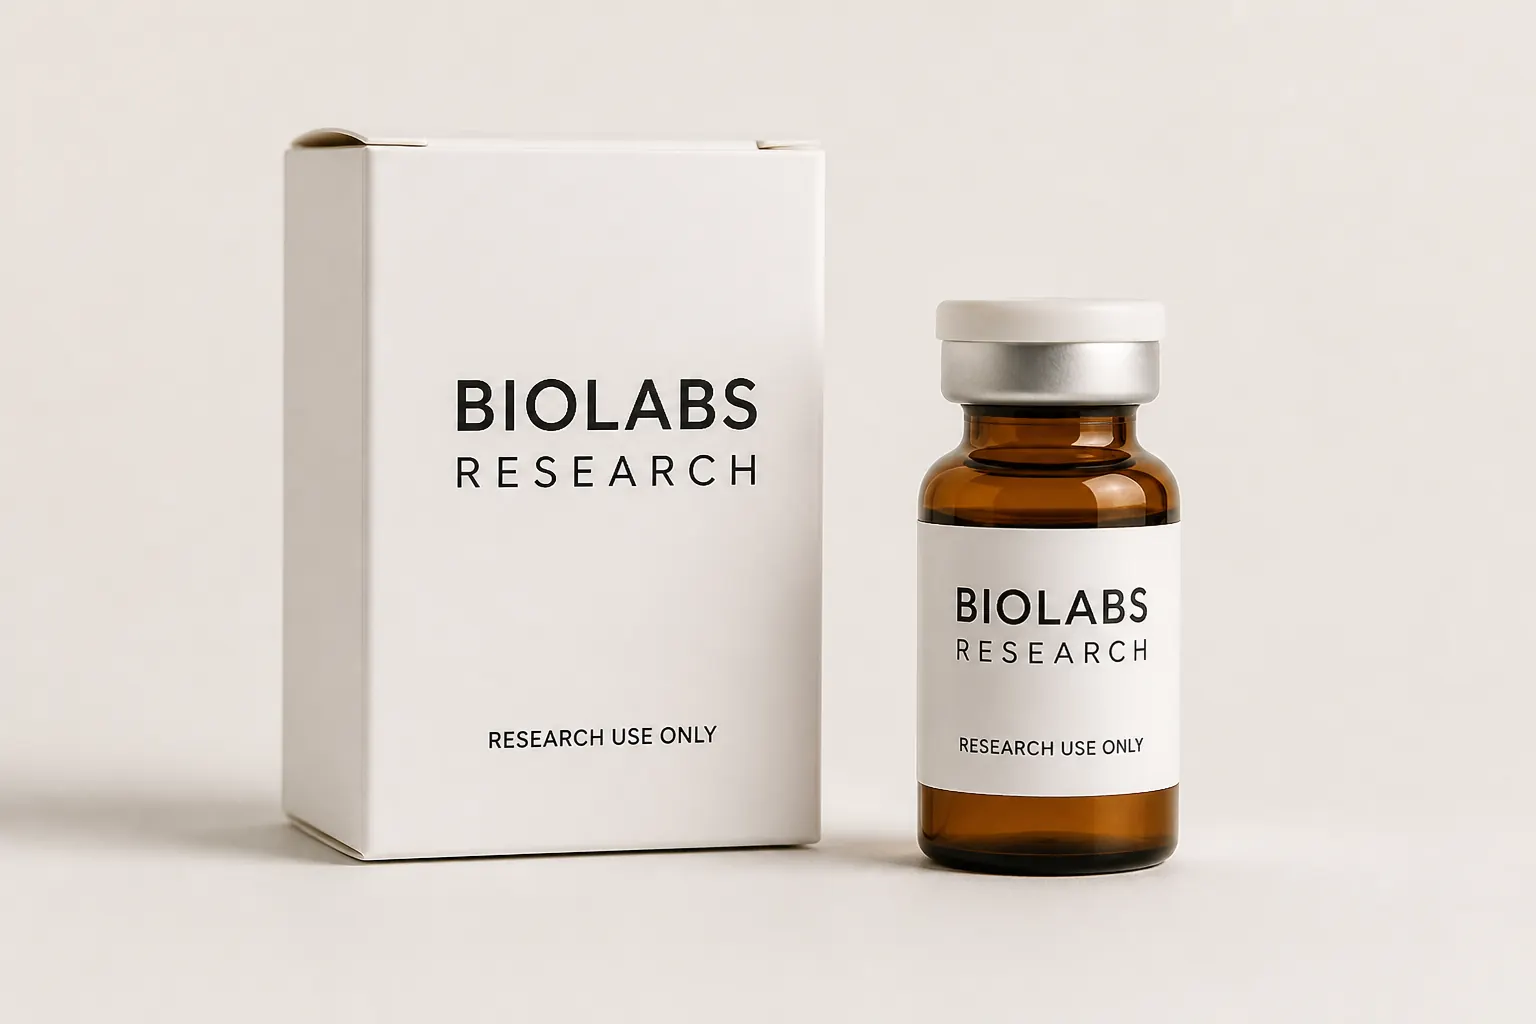
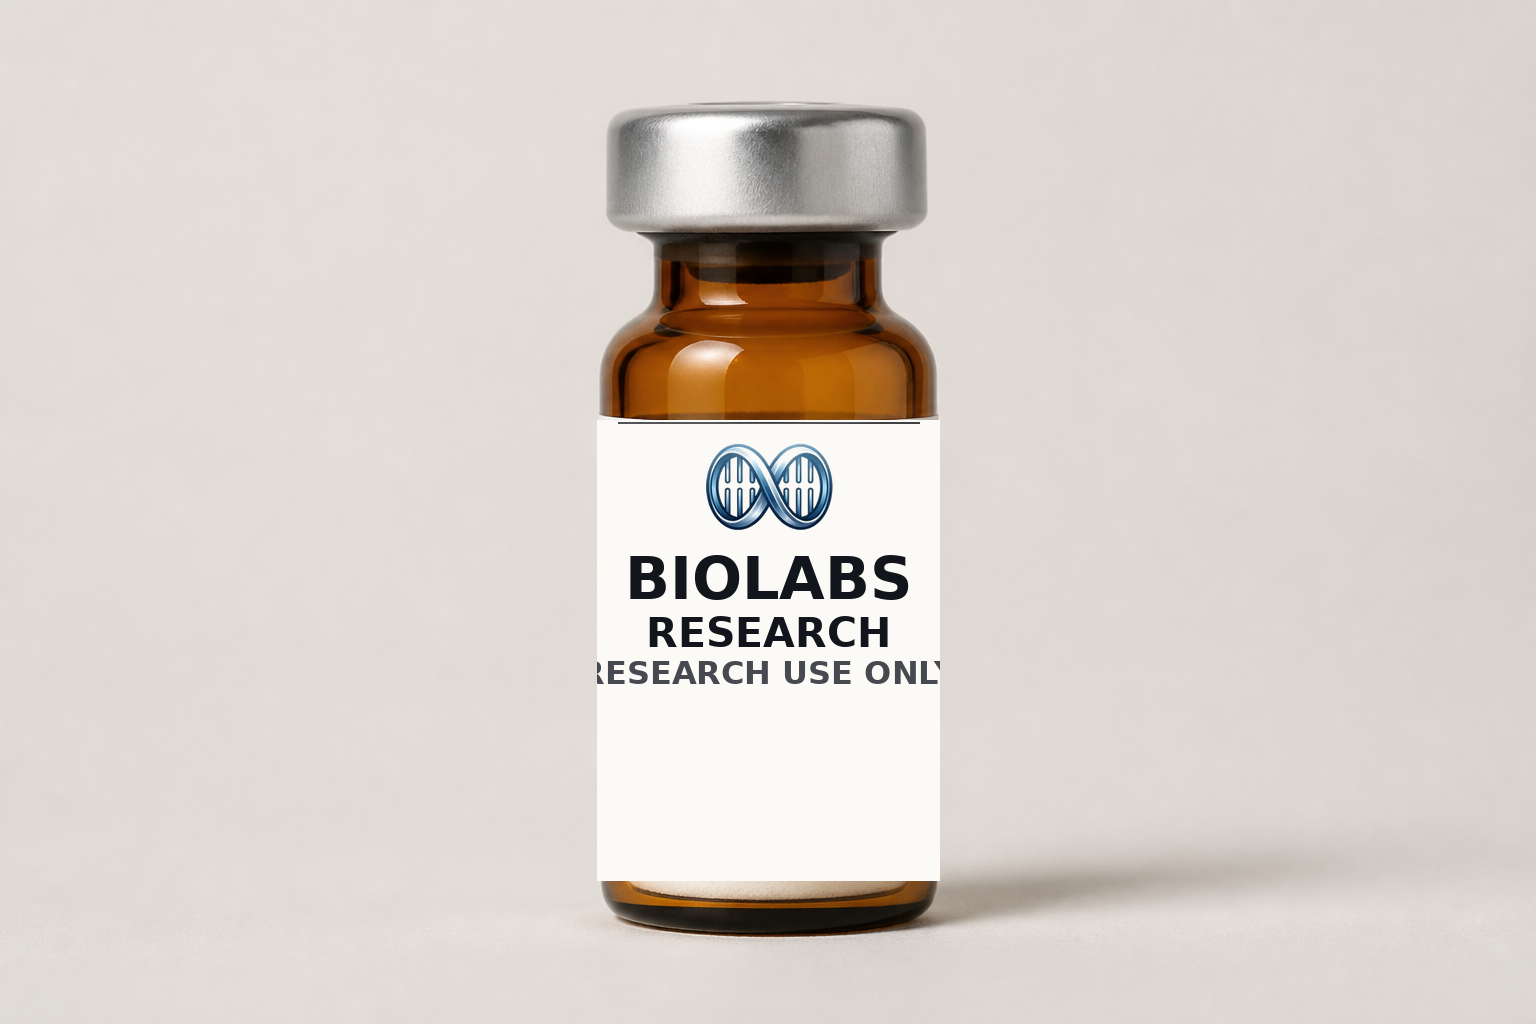
Unify catalog vials to one BioLabs Research label (helix + stacked type).

Changed region(s): [[0.0, 0.0938, 1.0, 0.9375]]

diff --git a/html/index.html b/html/index.html
@@ -53,7 +53,7 @@
 <link rel="preconnect" href="https://fonts.googleapis.com">
 <link rel="preconnect" href="https://fonts.gstatic.com" crossorigin>
 <link href="https://fonts.googleapis.com/css2?family=Inter:wght@300;400;500;600;700;800&family=Fraunces:opsz,wght@9..144,400;9..144,500;9..144,600&display=swap" rel="stylesheet">
-<link rel="preload" as="image" href="/media/label-box.webp?v=36" fetchpriority="high">
+<link rel="preload" as="image" href="/media/label-box.webp?v=37" fetchpriority="high">
 <link rel="stylesheet" href="/biofirst_style.css?v=35">
 <link rel="stylesheet" href="/auth.css?v=1">
 </head>
@@ -104,28 +104,28 @@
 
   <div class="hero-cards hero-tiles">
     <a href="#catalog" class="hero-card hero-card-singles">
-      <img src="/media/label-upright-v2.webp?v=36" alt="Upright labeled research vial on a light surface" width="800" height="600" fetchpriority="high" decoding="async">
+      <img src="/media/label-upright-v2.webp?v=37" alt="Upright labeled research vial on a light surface" width="800" height="600" fetchpriority="high" decoding="async">
       <div class="hero-card-overlay">
         <div class="hero-card-title">Singles</div>
         <div class="hero-card-link">One compound. Listed. →</div>
       </div>
     </a>
     <a href="products/bpc-157-tb-500-blend.html" class="hero-card hero-card-blends">
-      <img src="/media/label-box.webp?v=36" alt="Labeled two-compound research blend box and vial" width="800" height="600" decoding="async">
+      <img src="/media/label-box.webp?v=37" alt="Labeled two-compound research blend box and vial" width="800" height="600" decoding="async">
       <div class="hero-card-overlay">
         <div class="hero-card-title">Blends</div>
         <div class="hero-card-link">Two names. One SKU. →</div>
       </div>
     </a>
     <a href="#catalog" class="hero-card">
-      <img src="/media/tile-catalog.webp?v=36" alt="Lyophilized research vials in a tray beside a catalog list" width="800" height="600" loading="lazy" decoding="async">
+      <img src="/media/tile-catalog.webp?v=37" alt="Lyophilized research vials in a tray beside a catalog list" width="800" height="600" loading="lazy" decoding="async">
       <div class="hero-card-overlay">
         <div class="hero-card-title">Catalog</div>
         <div class="hero-card-link">See the list. →</div>
       </div>
     </a>
     <a href="#ship-facts" class="hero-card">
-      <img src="/media/tile-shipping.webp?v=36" alt="Closed insulated shipper, gel pack, and packing slip" width="800" height="600" loading="lazy" decoding="async">
+      <img src="/media/tile-shipping.webp?v=37" alt="Closed insulated shipper, gel pack, and packing slip" width="800" height="600" loading="lazy" decoding="async">
       <div class="hero-card-overlay">
         <div class="hero-card-title">How it ships</div>
         <div class="hero-card-link">Processed. Packed. Sent. →</div>
@@ -273,7 +273,7 @@
       <p class="compounds-sub">Sixteen listed reagents. Soft light, clear type, no theatre. Research use only.</p>
     </div>
     <figure class="compounds-shot">
-      <img src="/media/label-upright-v2.webp?v=36" alt="BioLabs Research labeled research vial" width="900" height="1100" loading="lazy" decoding="async">
+      <img src="/media/label-upright-v2.webp?v=37" alt="BioLabs Research labeled research vial" width="900" height="1100" loading="lazy" decoding="async">
     </figure>
   </div>
 </section>
@@ -359,7 +359,7 @@
     <div class="split-grid">
       <a class="split-card" href="products/bpc-157.html">
         <div class="split-photo">
-          <img src="/media/label-dropper-v2.webp?v=36" alt="Single-compound research vials" width="800" height="1000" loading="lazy" decoding="async">
+          <img src="/media/label-dropper-v2.webp?v=37" alt="Single-compound research vials" width="800" height="1000" loading="lazy" decoding="async">
         </div>
         <div class="split-body">
           <div class="split-kicker">Singles · from $95</div>
@@ -375,7 +375,7 @@
       </a>
       <a class="split-card" href="products/bpc-157-tb-500-blend.html">
         <div class="split-photo">
-          <img src="/media/label-box.webp?v=36" alt="Two-compound blend vial" width="800" height="1000" loading="lazy" decoding="async">
+          <img src="/media/label-box.webp?v=37" alt="Two-compound blend vial" width="800" height="1000" loading="lazy" decoding="async">
         </div>
         <div class="split-body">
           <div class="split-kicker">Blends · from $155</div>
